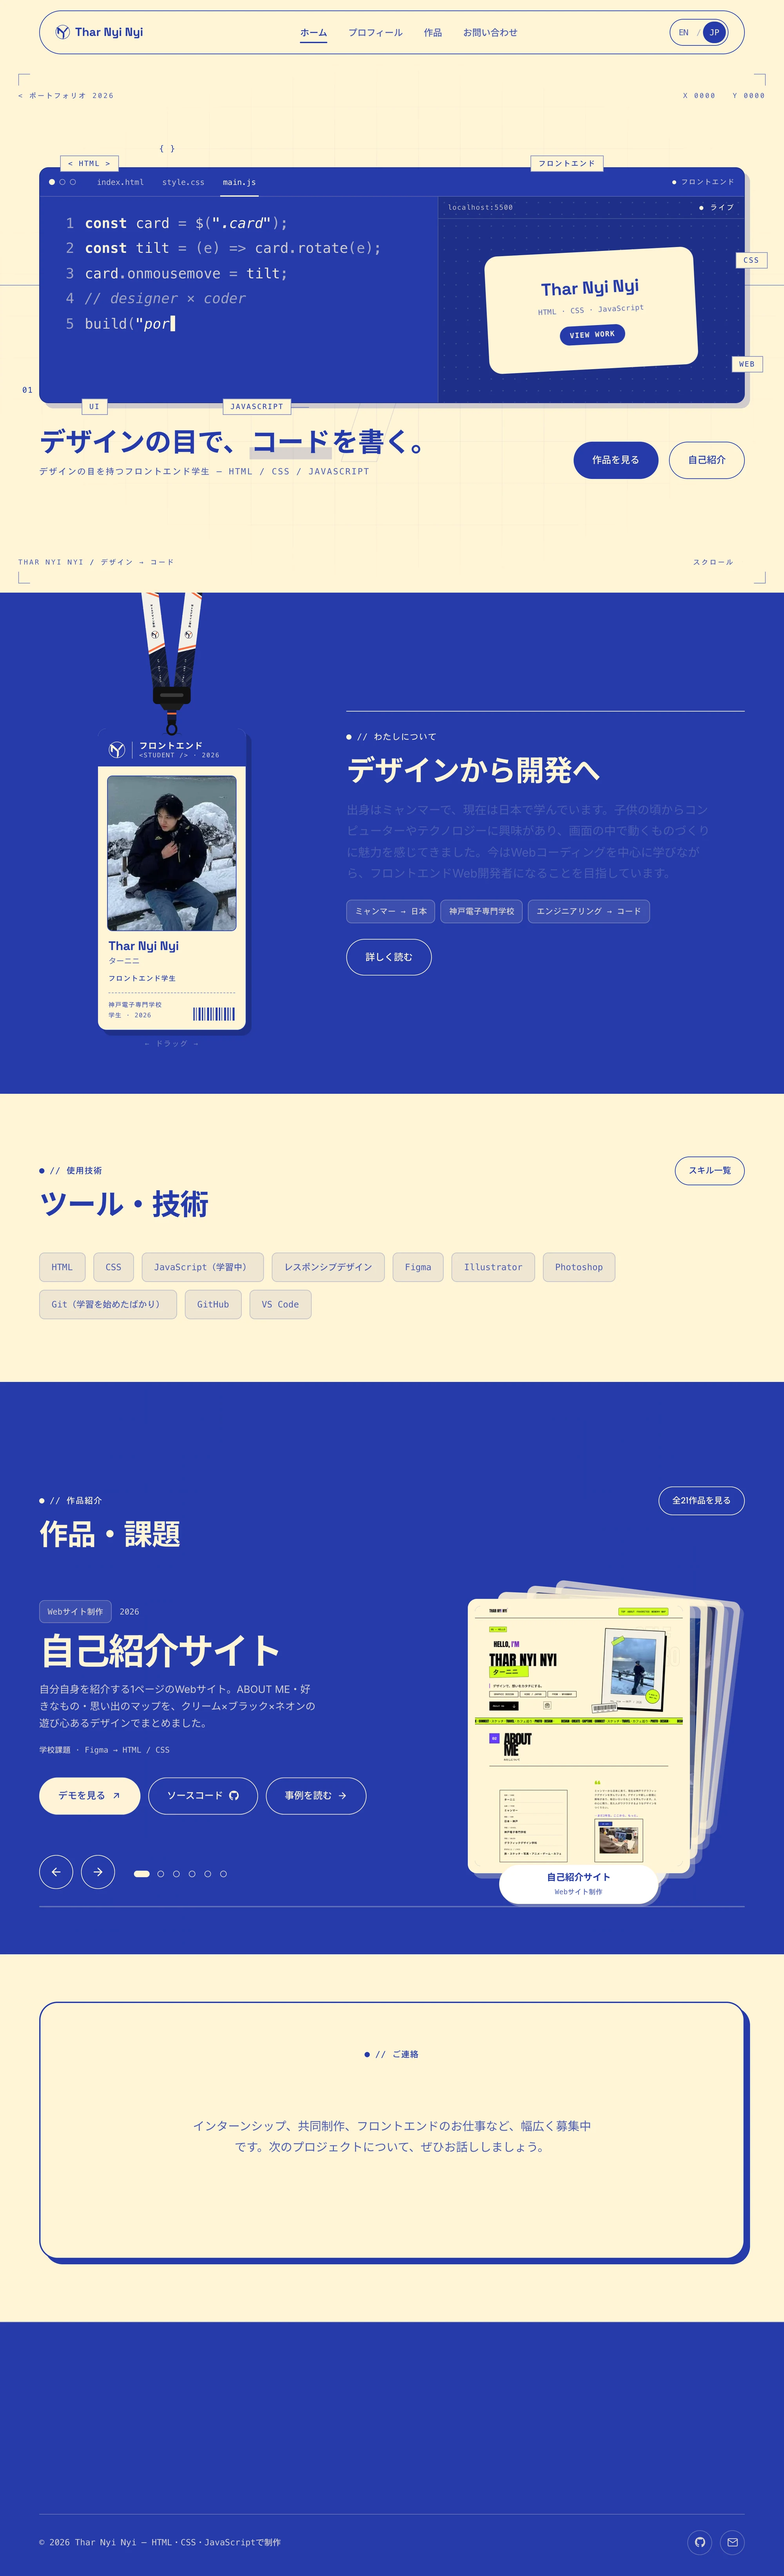
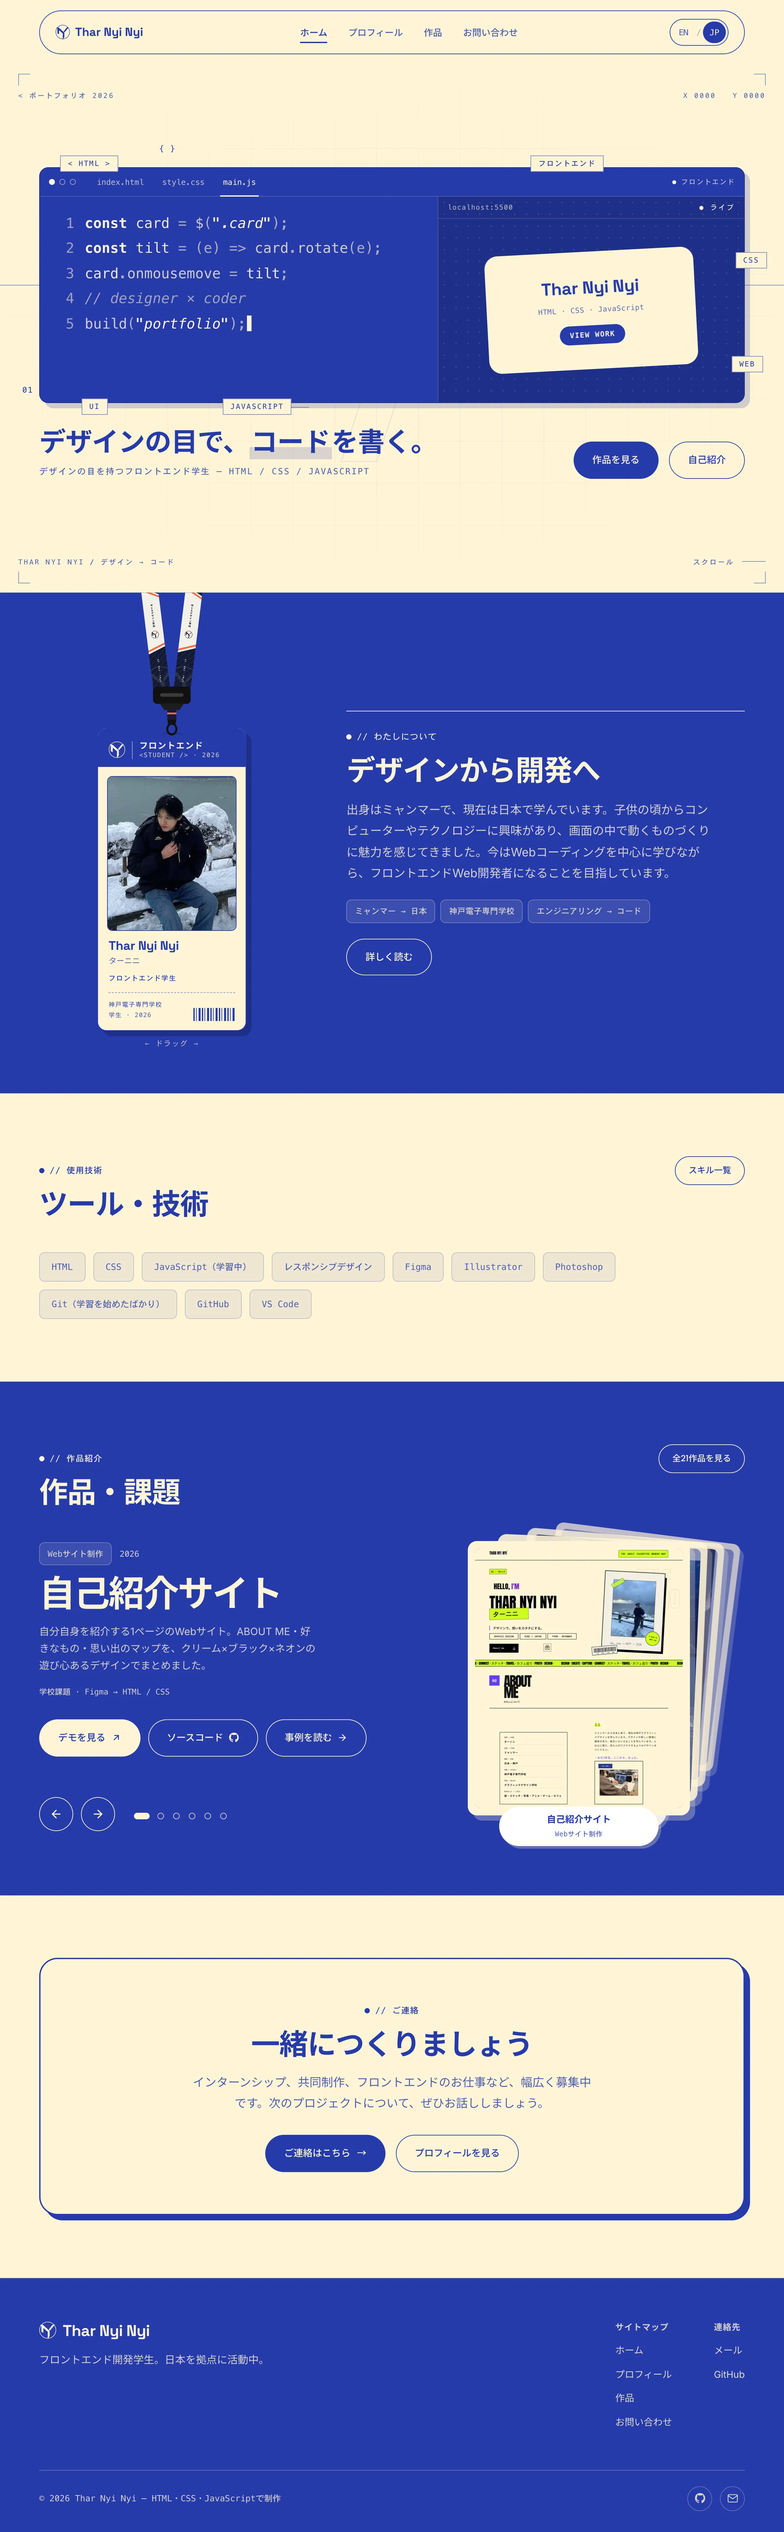
This-site case study: retake the Home preview with everything shown (footer, contact box, full code line)

diff --git a/works.html b/works.html
@@ -342,7 +342,7 @@
             <span class="proj-row__main">
               <span class="proj-row__meta"><span class="tag">Webサイト制作</span><span class="work-year">2026</span></span>
               <h2 class="proj-row__title">このポートフォリオサイト</h2>
-              <span class="proj-row__media" aria-hidden="true"><div class="pm"><div class="pm-browser"><div class="pm-browser__bar"><i></i><i></i><i></i></div><div class="pm-browser__view"><img src="assets/works/this-site/home-full.webp" alt="ポートフォリオサイト トップページ" width="2000" height="6571" loading="lazy" decoding="async"></div></div></div></span>
+              <span class="proj-row__media" aria-hidden="true"><div class="pm"><div class="pm-browser"><div class="pm-browser__bar"><i></i><i></i><i></i></div><div class="pm-browser__view"><img src="assets/works/this-site/home-full.webp" alt="ポートフォリオサイト トップページ" width="2000" height="6460" loading="lazy" decoding="async"></div></div></div></span>
               <span class="work-desc proj-row__desc">AIのコーディングツール「Claude Code」と一緒に作ったポートフォリオサイト。コードはAIが書き、私は作品の制作、確認と修正の指示、Git / GitHubでの管理・公開を担当しました。</span>
               <span class="proj-row__foot"><span class="proj-row__tools">Claude Code · HTML / CSS / JavaScript</span><span class="work-readmore">事例を見る <svg viewBox="0 0 24 24" fill="none" stroke="currentColor" stroke-width="2" stroke-linecap="round" stroke-linejoin="round"><line x1="5" y1="12" x2="19" y2="12"></line><polyline points="12 5 19 12 12 19"></polyline></svg></span></span>
             </span>
@@ -821,7 +821,7 @@
             </div><span class="tag proj-stage__cat">Webサイトデザイン</span><span class="proj-stage__cap">自己紹介 · HTML /
               CSS</span><span class="proj-stage__n">07 / 21</span>
           </div>
-        <div class="proj-stage__item" data-i="7" aria-hidden="true"><div class="pm"><div class="pm-browser"><div class="pm-browser__bar"><i></i><i></i><i></i></div><div class="pm-browser__view"><img src="assets/works/this-site/home-full.webp" alt="ポートフォリオサイト トップページ" width="2000" height="6571" loading="lazy" decoding="async"></div></div></div><span class="tag proj-stage__cat">Webサイト制作</span><span class="proj-stage__cap">Webサイト · Claude Code</span><span class="proj-stage__n">08 / 21</span></div>
+        <div class="proj-stage__item" data-i="7" aria-hidden="true"><div class="pm"><div class="pm-browser"><div class="pm-browser__bar"><i></i><i></i><i></i></div><div class="pm-browser__view"><img src="assets/works/this-site/home-full.webp" alt="ポートフォリオサイト トップページ" width="2000" height="6460" loading="lazy" decoding="async"></div></div></div><span class="tag proj-stage__cat">Webサイト制作</span><span class="proj-stage__cap">Webサイト · Claude Code</span><span class="proj-stage__n">08 / 21</span></div>
           <div class="proj-stage__item" data-i="8" aria-hidden="true">
             <div class="pm">
               <div class="pm-browser">

diff --git a/work-this-site.html b/work-this-site.html
@@ -88,7 +88,7 @@
         <div class="browser-url">tharnyinyi959-create.github.io</div>
       </div>
       <div class="browser-scroll">
-        <img src="assets/works/this-site/home-full.webp" alt="ポートフォリオサイト トップページ フルページ" width="2000" height="6571">
+        <img src="assets/works/this-site/home-full.webp" alt="ポートフォリオサイト トップページ フルページ" width="2000" height="6460">
       </div>
       <div class="browser-scroll-hint">
         <svg viewBox="0 0 24 24" fill="none" stroke="currentColor" stroke-width="2" stroke-linecap="round" stroke-linejoin="round"><polyline points="6 9 12 15 18 9"></polyline></svg>
